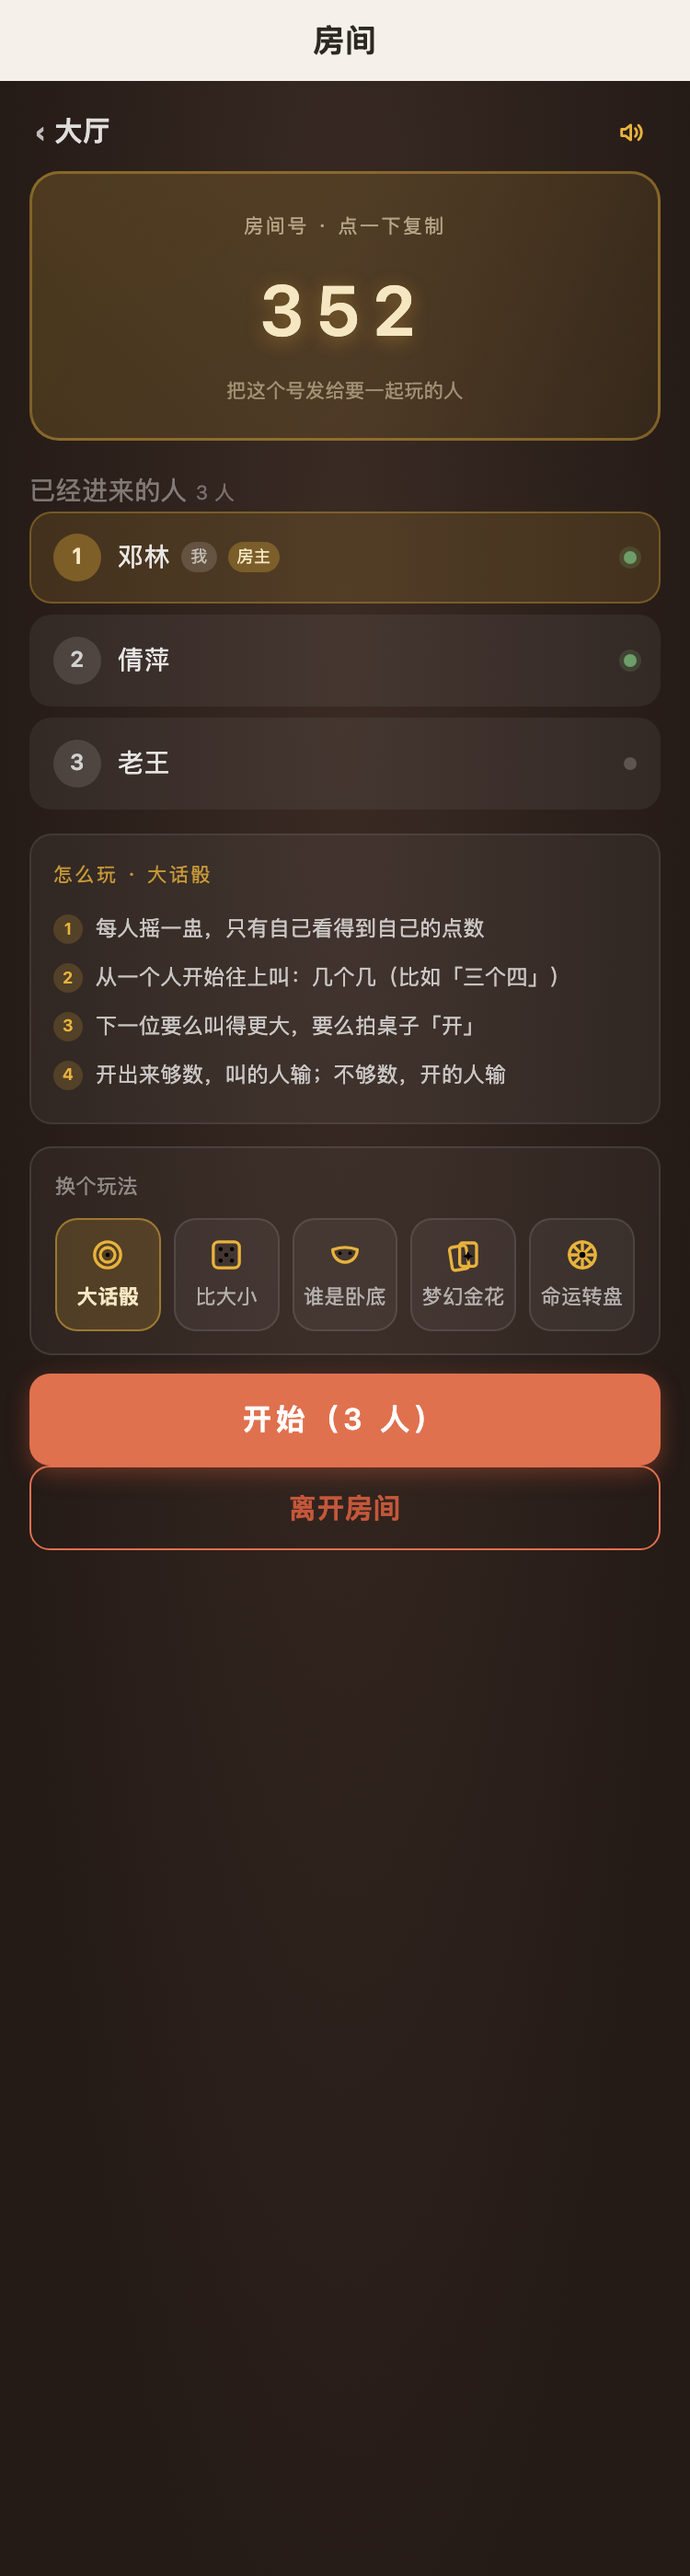
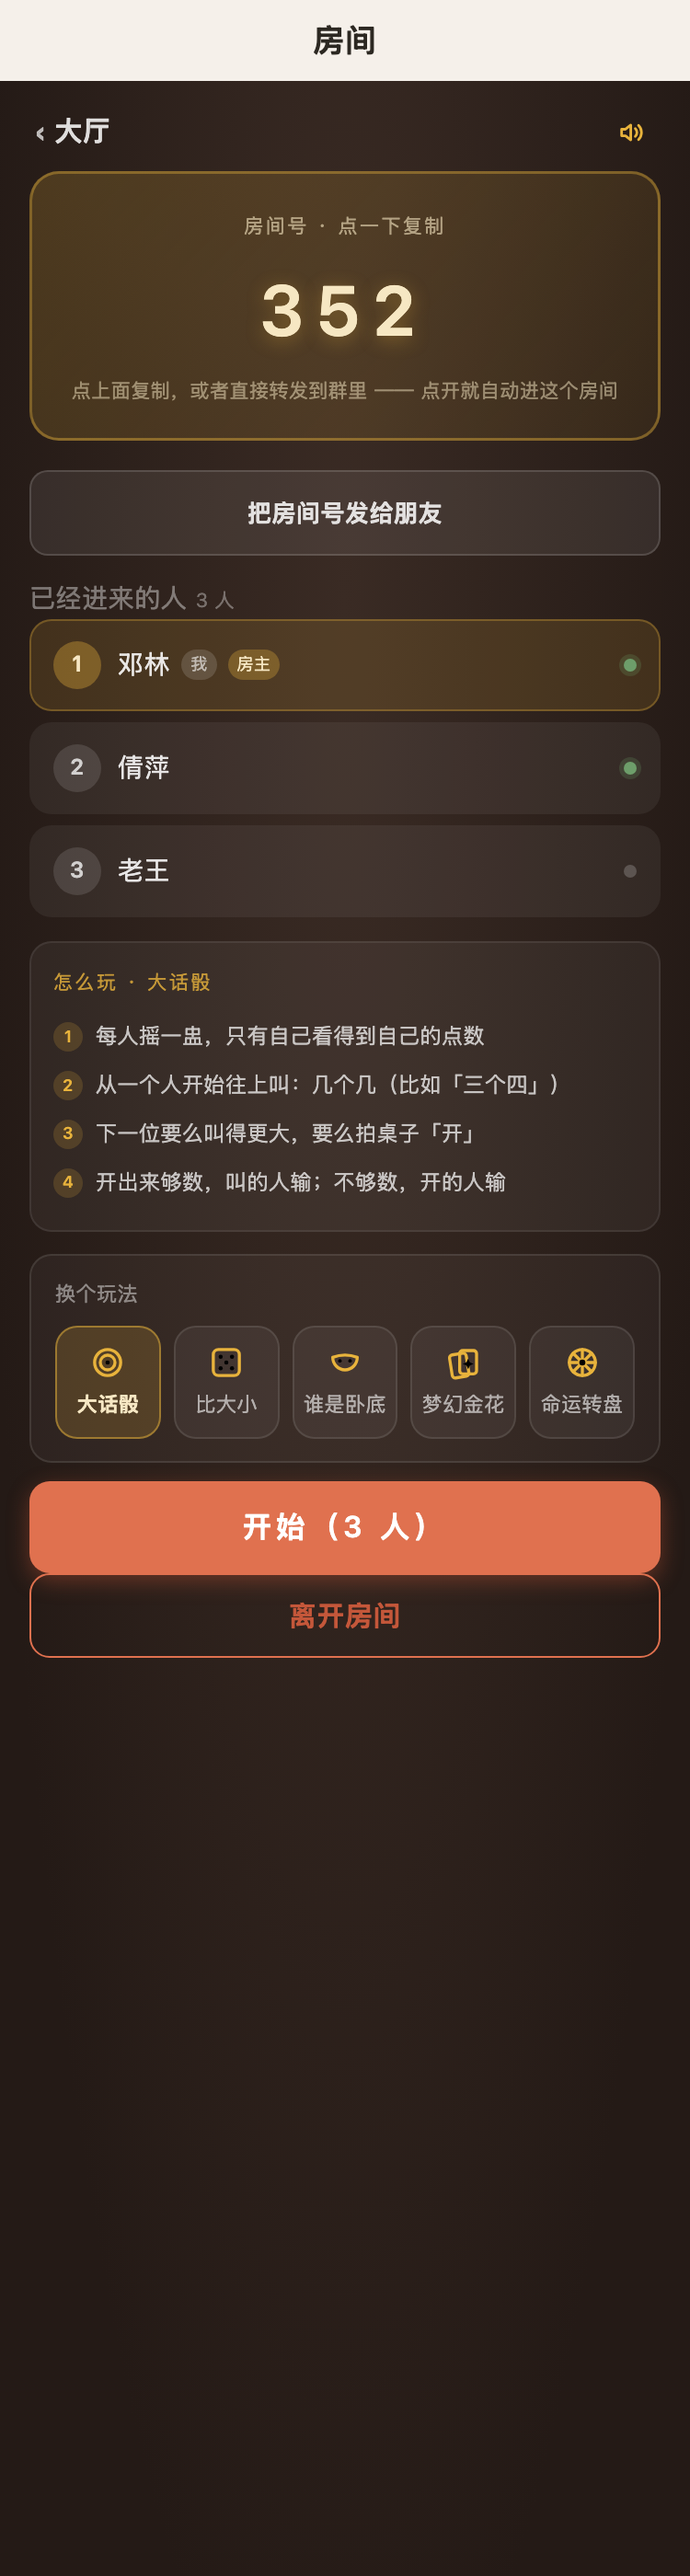
feat(3.6.4): 房间号一键转发（之前小程序根本不能转发）
★ 在此之前**本页完全没有 onShareAppMessage**，微信右上角菜单里的
  「转发」是灰的 —— 一个多人游戏不能转发，等于每次开局都要教一遍
  "怎么把号发出去"。而酒桌上最自然的动作其实是"发到群里"，
  不是"复制一串数字再手动粘贴"。

现在：
· 房间页定义 onShareAppMessage，分享卡片带房间号，
  path 是 /pages/room/room?code=352 —— **对方点开直接落到这个房间**，
  不用再手输（这是微信分享比发数字强的地方）
· lobby 加一个「把房间号发给朋友」按钮
  ⚠ 必须用 `<button open-type="share">`，微信只认 button 唤起转发面板；
     button 自带背景/边框/圆角，样式要全部重置（边框画在 ::after 上）
· 大厅也支持转发（分享整个小程序，不带房间号）

顺带把 lobby 的提示改成说清楚两条路：复制 vs 直接转发。

diff --git a/outputs/ui/room-lobby.html b/outputs/ui/room-lobby.html
@@ -885,13 +885,32 @@ view, text, button, input, textarea { box-sizing: border-box }
   line-height: 1.05; margin: 7px 0 5px;
   letter-spacing: -1px;
   text-shadow: 0 3px 15px rgba(232,179,60,.45);
-  
-  animation: cdPop .75s cubic-bezier(.22, 1.5, .5, 1) infinite;
 }
-@keyframes cdPop {
-  0%   { transform: scale(1.28); opacity: .55 }
-  22%  { transform: scale(1);    opacity: 1 }
+
+.cd-num.pop-a { animation: cdPopA .82s cubic-bezier(.22, 1.45, .5, 1) both }
+.cd-num.pop-b { animation: cdPopB .82s cubic-bezier(.22, 1.45, .5, 1) both }
+@keyframes cdPopA {
+  0%   { transform: scale(1.34); opacity: .4 }
+  26%  { transform: scale(.97);  opacity: 1 }
   100% { transform: scale(1);    opacity: 1 }
+}
+@keyframes cdPopB {
+  0%   { transform: scale(1.34); opacity: .4 }
+  26%  { transform: scale(.97);  opacity: 1 }
+  100% { transform: scale(1);    opacity: 1 }
+}
+
+
+.cd-num.go {
+  font-size: 60px;
+  color: #FFF3D6;
+  text-shadow: 0 0 20px rgba(255,210,140,.9), 0 4px 17px rgba(232,179,60,.6);
+  animation: cdGoBurst .5s cubic-bezier(.16, 1.3, .4, 1) both;
+}
+@keyframes cdGoBurst {
+  0%   { transform: scale(.72); opacity: 0 }
+  55%  { transform: scale(1.1); opacity: 1 }
+  100% { transform: scale(1);   opacity: 1 }
 }
 .cd-sub { font-size: 11.5px; color: rgba(255,255,255,.45); margin-top: 9px }
 
@@ -1506,6 +1525,82 @@ view, text, button, input, textarea { box-sizing: border-box }
   color: rgba(255,255,255,.72);
 }
 
+
+.room-loading {
+  position: fixed; left: 0; right: 0; top: 0; bottom: 0;
+  z-index: 90;
+  display: flex; flex-direction: column;
+  align-items: center; justify-content: center; gap: 11px;
+  background: rgba(28, 22, 18, .93);
+  animation: fadeIn .2s ease;
+}
+.rl-dice {
+  position: relative;
+  width: 44px; height: 44px;
+  border-radius: 9px;
+  background: linear-gradient(145deg, #FFFDF9, #E8DED0);
+  box-shadow: 0 5px 13px rgba(0,0,0,.4);
+  animation: rlTumble 1.15s cubic-bezier(.45,.05,.55,.95) infinite;
+}
+@keyframes rlTumble {
+  0%   { transform: rotate(0deg) translateY(0) }
+  25%  { transform: rotate(90deg) translateY(-7px) }
+  50%  { transform: rotate(180deg) translateY(0) }
+  75%  { transform: rotate(270deg) translateY(-7px) }
+  100% { transform: rotate(360deg) translateY(0) }
+}
+
+.rl-face {
+  position: absolute; width: 7px; height: 7px; border-radius: 50%;
+  background: #C4573A;
+}
+.rl-f1 { left: 10px; top: 10px }
+.rl-f2 { left: 18.5px; top: 18.5px }
+.rl-f3 { right: 10px; bottom: 10px }
+.rl-t {
+  font-size: 13.5px; font-weight: 600; color: #F6E7C3; letter-spacing: 1px;
+}
+.rl-s { font-size: 10.5px; color: rgba(255,255,255,.4) }
+
+
+.nettip {
+  display: flex; align-items: center; justify-content: center; gap: 8px;
+}
+.nettip.down {
+  background: rgba(196, 67, 47, .16);
+  color: #F0A38C;
+  border: 1px solid rgba(196, 67, 47, .3);
+  animation: netFade .3s ease;
+}
+.nettip-retry {
+  flex: none;
+  padding: 3px 10px;
+  border-radius: 499.5px;
+  background: rgba(255,255,255,.14);
+  color: #fff;
+  font-size: 10px;
+  font-weight: 600;
+}
+.nettip-retry:active { opacity: .7 }
+
+
+.cc-share {
+  display: flex; align-items: center; justify-content: center;
+  width: 100%;
+  margin: 0 0 var(--gap-2);
+  padding: 13px 0;
+  background: rgba(255,255,255,.08);
+  border: 1px solid rgba(255,255,255,.14);
+  border-radius: 10px;
+  
+}
+.cc-share::after { border: none }
+.cc-share-t {
+  font-size: 13px; font-weight: 600;
+  color: rgba(255,255,255,.85);
+}
+.cc-share-on { background: rgba(255,255,255,.16) }
+
 </style>
 </head><body>
 <!-- 小程序导航栏（简写近似） -->
@@ -1524,11 +1619,17 @@ view, text, button, input, textarea { box-sizing: border-box }
   </div>
 
   
+  
     <div class="codecard">
       <div class="cc-lbl">房间号 · 点一下复制</div>
       <div class="cc-code">352</div>
-      <div class="cc-hint">把这个号发给要一起玩的人</div>
+      <div class="cc-hint">点上面复制，或者直接转发到群里 —— 点开就自动进这个房间</div>
     </div>
+
+    
+    <button class="cc-share">
+      <span class="cc-share-t">把房间号发给朋友</span>
+    </button>
 
     <div class="sechead">
       <span >已经进来的人</span>

diff --git a/miniprogram/pages/room/room.js b/miniprogram/pages/room/room.js
@@ -1000,6 +1000,32 @@ Page({
     return room
   },
 
+  /**
+   * 转发小程序卡片 —— 酒桌上最自然的动作是"把房间号发到群里"，
+   * 而不是"复制一串数字再手动粘贴"。
+   *
+   * ★ 在此之前本页**完全没有 onShareAppMessage**，
+   *   微信右上角菜单里的「转发」是灰的 —— 一个多人游戏不能转发，
+   *   等于每次开局都要教一遍"怎么把号发出去"。
+   *
+   * path 里带房间号：对方点开小程序**直接落到这个房间**，
+   * 不需要再手输一遍（这就是微信分享比"发一串数字"强的地方）。
+   */
+  onShareAppMessage() {
+    const r = this.data.room
+    if (r && r.code) {
+      const g = gameOf(r.game)
+      return {
+        title: '来玩' + (g ? g.name : '酒桌游戏') + '，房间号 ' + r.code,
+        path: '/pages/room/room?code=' + r.code
+      }
+    }
+    return {
+      title: '一起来玩酒桌游戏',
+      path: '/pages/lobby/lobby'
+    }
+  },
+
   /* ================= 谁是卧底 ================= */
 
   /*

diff --git a/miniprogram/pages/lobby/lobby.js b/miniprogram/pages/lobby/lobby.js
@@ -103,6 +103,13 @@ Page({
     })
   },
 
+  onShareAppMessage() {
+    return {
+      title: '酒桌上缺个游戏？这几个都能手机一起玩',
+      path: '/pages/lobby/lobby'
+    }
+  },
+
   onHide() { sfx.stopAll() },
   onUnload() { sfx.destroy() },
 
